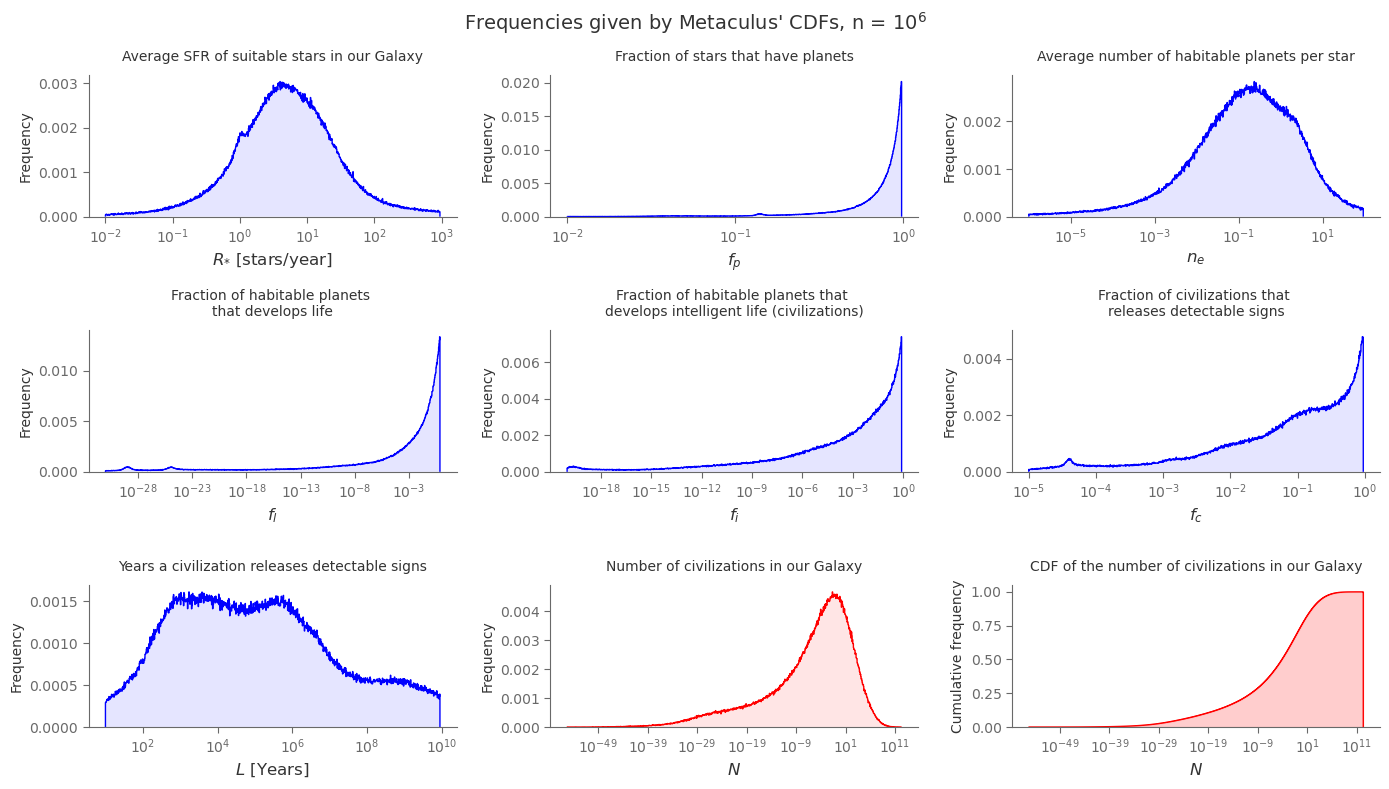
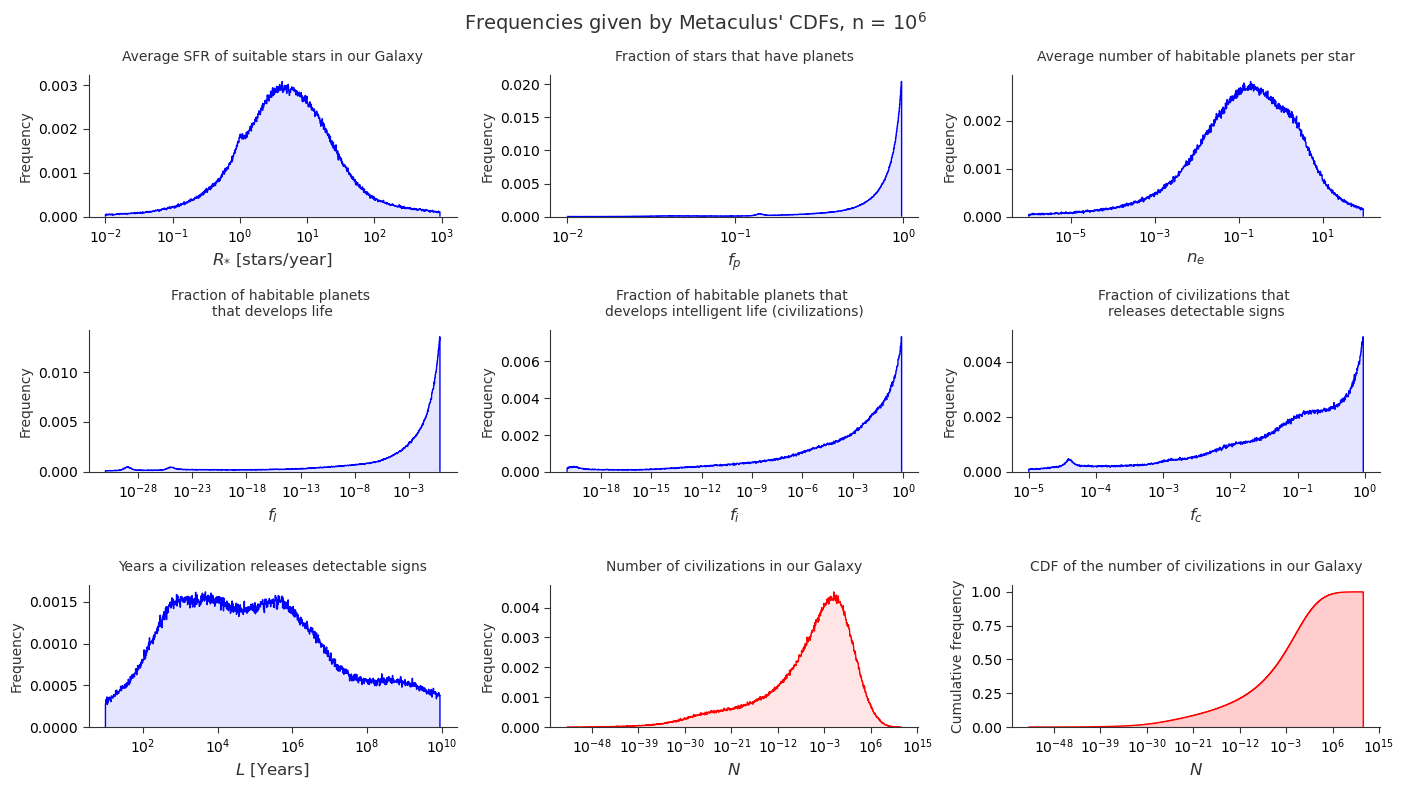
Mudança de cor dos eixos e textos.

diff --git a/Drake_Metaculus.py b/Drake_Metaculus.py
@@ -160,14 +160,14 @@ def histogram(ax, df_f, color, edgecolor, label, xlabel, title, q, nbins):
      ax.set_xscale("log")
 
      ax.minorticks_on()
-     ax.tick_params(which = "major", direction = "out", length = 4, colors = 'dimgray')
+     ax.tick_params(which = "major", direction = "out", length = 4, color = custom_dark_gray)
      ax.tick_params(which = "minor", direction = "in", length = 0)
      ax.tick_params(which = "both", bottom = True, top = False, left = True, right = False)
      ax.tick_params(labelbottom = True, labeltop = False, labelleft = True, labelright = False)
      ax.spines['right'].set_visible(False)
      ax.spines['top'].set_visible(False)
-     ax.spines['left'].set_color('dimgray')
-     ax.spines['bottom'].set_color('dimgray')
+     ax.spines['left'].set_color(custom_dark_gray)
+     ax.spines['bottom'].set_color(custom_dark_gray)
 
 #--------------------------------------------------------------------------------------------
 # Creating a figure object with size 14x8 inches and 9 subfigs
@@ -302,14 +302,14 @@ ax9.set_title("CDF of the number of civilizations in our Galaxy", fontsize = 10,
 ax9.set_xscale("log")
 
 ax9.minorticks_on()
-ax9.tick_params(which = "major", direction = "out", length = 4, colors = 'dimgray')
+ax9.tick_params(which = "major", direction = "out", length = 4, color = custom_dark_gray)
 ax9.tick_params(which = "minor", direction = "in", length = 0)
 ax9.tick_params(which = "both", bottom = True, top = False, left = True, right = False)
 ax9.tick_params(labelbottom = True, labeltop = False, labelleft = True, labelright = False)
 ax9.spines['right'].set_visible(False)
 ax9.spines['top'].set_visible(False)
-ax9.spines['left'].set_color('dimgray')
-ax9.spines['bottom'].set_color('dimgray')
+ax9.spines['left'].set_color(custom_dark_gray)
+ax9.spines['bottom'].set_color(custom_dark_gray)
 
 ecdft = ECDF(Ns)
 ax9.fill_between(log_space_bins, ecdft(log_space_bins), color = "red", alpha = 0.1)
@@ -343,14 +343,14 @@ def plot(ax, df_f, color, label, xlabel, title):
      ax.set_xscale("log")
 
      ax.minorticks_on()
-     ax.tick_params(which = "major", direction = "out", length = 4, colors = 'dimgray')
+     ax.tick_params(which = "major", direction = "out", length = 4, color = custom_dark_gray)
      ax.tick_params(which = "minor", direction = "in", length = 0)
      ax.tick_params(which = "both", bottom = True, top = False, left = True, right = False)
      ax.tick_params(labelbottom = True, labeltop = False, labelleft = True, labelright = False)
      ax.spines['right'].set_visible(False)
      ax.spines['top'].set_visible(False)
-     ax.spines['left'].set_color('dimgray')
-     ax.spines['bottom'].set_color('dimgray')
+     ax.spines['left'].set_color(custom_dark_gray)
+     ax.spines['bottom'].set_color(custom_dark_gray)
 
      ax.fill_between(df_f['x_log'], df_f['PDF'], color = "blue", alpha = 0.1)
 #-------------------------------------------------------------------------------------------
@@ -442,14 +442,14 @@ ax8.set_title("Number of civilizations in our Galaxy", fontsize = 10, pad = 10, 
 # Axes
 #ax8.set_xscale("log")
 ax8.minorticks_on()
-ax8.tick_params(which = "major", direction = "out", length = 4, colors = 'dimgray')
+ax8.tick_params(which = "major", direction = "out", length = 4, color = custom_dark_gray)
 ax8.tick_params(which = "minor", direction = "in", length = 0)
 ax8.tick_params(which = "both", bottom = True, top = False, left = True, right = False)
 ax8.tick_params(labelbottom = True, labeltop = False, labelleft = True, labelright = False)
 ax8.spines['right'].set_visible(False)
 ax8.spines['top'].set_visible(False)
-ax8.spines['left'].set_color('dimgray')
-ax8.spines['bottom'].set_color('dimgray')
+ax8.spines['left'].set_color(custom_dark_gray)
+ax8.spines['bottom'].set_color(custom_dark_gray)
 
 ax8.fill_between(x, N_density(x), color = "red", alpha = 0.1)
 
@@ -474,14 +474,14 @@ ax9.set_title("CDF of the number of civilizations in our Galaxy", fontsize = 10,
 ax9.set_xscale("log")
 
 ax9.minorticks_on()
-ax9.tick_params(which = "major", direction = "out", length = 4, colors = 'dimgray')
+ax9.tick_params(which = "major", direction = "out", length = 4, color = custom_dark_gray)
 ax9.tick_params(which = "minor", direction = "in", length = 0)
 ax9.tick_params(which = "both", bottom = True, top = False, left = True, right = False)
 ax9.tick_params(labelbottom = True, labeltop = False, labelleft = True, labelright = False)
 ax9.spines['right'].set_visible(False)
 ax9.spines['top'].set_visible(False)
-ax9.spines['left'].set_color('dimgray')
-ax9.spines['bottom'].set_color('dimgray')
+ax9.spines['left'].set_color(custom_dark_gray)
+ax9.spines['bottom'].set_color(custom_dark_gray)
 
 ax9.fill_between(log_space_bins, ecdft(log_space_bins), color = "red", alpha = 0.1)
 
@@ -541,14 +541,14 @@ ax1.set_title("Number of civilizations in our Galaxy", fontsize = 12, pad = 10, 
 ax1.set_xscale("log")
 
 ax1.minorticks_on()
-ax1.tick_params(which = "major", direction = "out", length = 4, colors = 'dimgray')
+ax1.tick_params(which = "major", direction = "out", length = 4, color = custom_dark_gray)
 ax1.tick_params(which = "minor", direction = "in", length = 0)
 ax1.tick_params(which = "both", bottom = True, top = False, left = True, right = False)
 ax1.tick_params(labelbottom = True, labeltop = False, labelleft = True, labelright = False)
 ax1.spines['right'].set_visible(False)
 ax1.spines['top'].set_visible(False)
-ax1.spines['left'].set_color('dimgray')
-ax1.spines['bottom'].set_color('dimgray')
+ax1.spines['left'].set_color(custom_dark_gray)
+ax1.spines['bottom'].set_color(custom_dark_gray)
 
 # Color filling
 ax1.fill_between(log_space_bins_midpoints, N_interpolated, color = "red", alpha = 0.1)
@@ -571,7 +571,7 @@ probability_not_alone_MW = (ecdft(10**12) - ecdft(1))*100
 formatted_probability = f"{probability_not_alone_MW:.0f}%"
 text = "Probability of\n NOT being\n  alone in the\n   Milky Way\n    galaxy\n    ($N > 1$): " + formatted_probability
 ax1.text(9*10**1, 0.0033, text, fontsize = 8, color = custom_dark_gray)
-ax1.text(10**1, 0.00025, f'{probability_not_alone_MW:.0f}%', fontsize = 12)
+ax1.text(10**1, 0.00025, f'{probability_not_alone_MW:.0f}%', fontsize = 12, color = custom_dark_gray)
 
 #---------------------------------------
 # Alone in the Galaxy hatch filling and line
@@ -598,7 +598,7 @@ probability_alone_MW = ecdft(1)*100
 formatted_probability = f"{probability_alone_MW:.0f}%"
 text = "Probability of being alone \nin the Milky Way galaxy \n($N < 1$): " + formatted_probability
 ax1.text(10**-29, 0.0025, text, fontsize = 8, color = custom_dark_gray)
-ax1.text(10**-8, 0.0008, f'{probability_alone_MW:.0f}%', fontsize = 12)
+ax1.text(10**-8, 0.0008, f'{probability_alone_MW:.0f}%', fontsize = 12, color = custom_dark_gray)
 
 #---------------------------------------
 # Alone in the observable Universe hatch filling and line
@@ -625,7 +625,7 @@ probability_alone_OU = ecdft(5*10**-13)*100
 formatted_probability = f"{probability_alone_OU:.0f}%"
 text = "Probability of being alone \nin the observable Universe \n($N < 5 \\times 10^{{-13}}$): " + formatted_probability
 ax1.text(10**-47, 0.0005, text, fontsize = 8, color = custom_dark_gray)
-ax1.text(10**-20, 0.00025, f'{probability_alone_OU:.0f}%', fontsize = 12)
+ax1.text(10**-20, 0.00025, f'{probability_alone_OU:.0f}%', fontsize = 12, color = custom_dark_gray)
 
 #-------------------------------------------------------------------------------------------
 # N CDF
@@ -647,14 +647,14 @@ ax2.set_title("CDF of the number of civilizations in our Galaxy", fontsize = 12,
 ax2.set_xscale("log")
 
 ax2.minorticks_on()
-ax2.tick_params(which = "major", direction = "out", length = 4, colors = 'dimgray')
+ax2.tick_params(which = "major", direction = "out", length = 4, color = custom_dark_gray)
 ax2.tick_params(which = "minor", direction = "in", length = 0)
 ax2.tick_params(which = "both", bottom = True, top = False, left = True, right = False)
 ax2.tick_params(labelbottom = True, labeltop = False, labelleft = True, labelright = False)
 ax2.spines['right'].set_visible(False)
 ax2.spines['top'].set_visible(False)
-ax2.spines['left'].set_color('dimgray')
-ax2.spines['bottom'].set_color('dimgray')
+ax2.spines['left'].set_color(custom_dark_gray)
+ax2.spines['bottom'].set_color(custom_dark_gray)
 
 # Color filling
 ax2.fill_between(log_space_bins, ecdft(log_space_bins), color = "red", alpha = 0.1)
